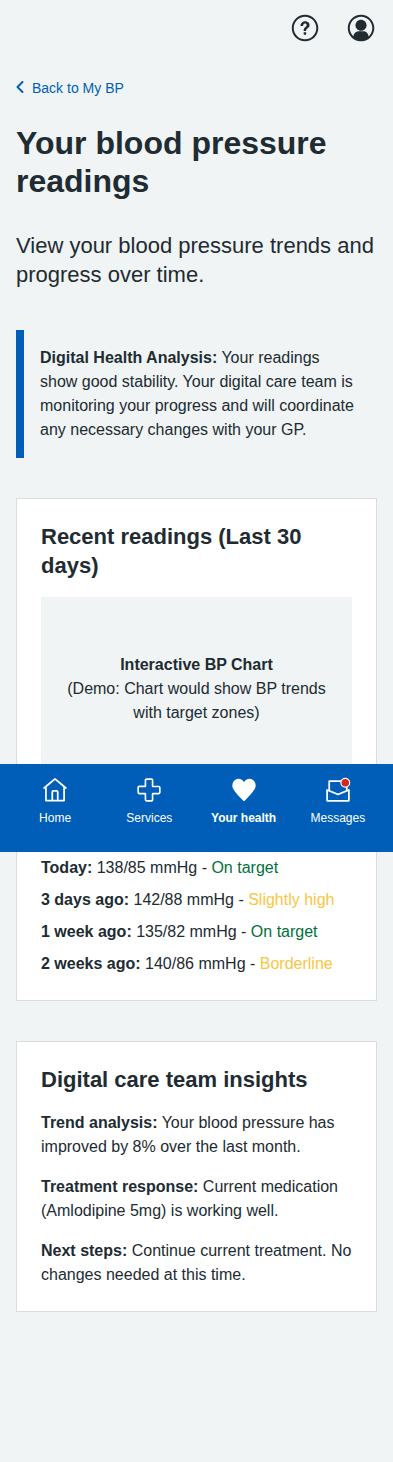
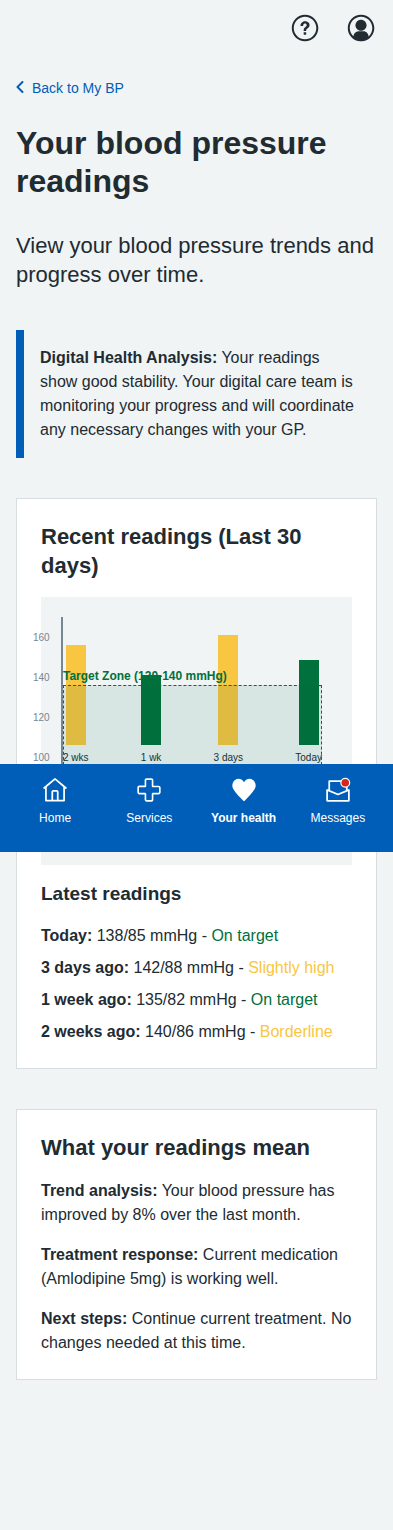
Replace placeholder chart with visual mockup and improve patient-friendly language in dashboard

diff --git a/prototype/v1/app/views/pages/mybp/dashboard.html b/prototype/v1/app/views/pages/mybp/dashboard.html
@@ -33,9 +33,38 @@
           <h2 class="nhsuk-card__heading nhsuk-heading-m">
             Recent readings (Last 30 days)
           </h2>
-          <div style="background: #f0f4f5; padding: 20px; text-align: center; min-height: 200px; display: flex; align-items: center; justify-content: center;">
-            <p><strong>Interactive BP Chart</strong><br/>
-            (Demo: Chart would show BP trends with target zones)</p>
+          <div style="background: #f0f4f5; padding: 20px; min-height: 200px;">
+            <div style="display: flex; justify-content: space-between; align-items: end; height: 160px; border-bottom: 2px solid #768692; border-left: 2px solid #768692; padding: 0 10px 10px 0; position: relative;">
+              <!-- Target zone background -->
+              <div style="position: absolute; bottom: 10px; left: 0; right: 10px; height: 80px; background: rgba(0, 112, 60, 0.1); border: 1px dashed #00703c;"></div>
+              <div style="position: absolute; bottom: 90px; left: 0; right: 10px; font-size: 12px; color: #00703c; font-weight: bold;">Target Zone (120-140 mmHg)</div>
+              
+              <!-- Chart bars -->
+              <div style="display: flex; flex-direction: column; align-items: center;">
+                <div style="width: 20px; height: 100px; background: #f9c642; margin-bottom: 5px;"></div>
+                <small style="font-size: 10px;">2 wks</small>
+              </div>
+              <div style="display: flex; flex-direction: column; align-items: center;">
+                <div style="width: 20px; height: 70px; background: #00703c; margin-bottom: 5px;"></div>
+                <small style="font-size: 10px;">1 wk</small>
+              </div>
+              <div style="display: flex; flex-direction: column; align-items: center;">
+                <div style="width: 20px; height: 110px; background: #f9c642; margin-bottom: 5px;"></div>
+                <small style="font-size: 10px;">3 days</small>
+              </div>
+              <div style="display: flex; flex-direction: column; align-items: center;">
+                <div style="width: 20px; height: 85px; background: #00703c; margin-bottom: 5px;"></div>
+                <small style="font-size: 10px;">Today</small>
+              </div>
+              
+              <!-- Y-axis labels -->
+              <div style="position: absolute; left: -30px; bottom: 130px; font-size: 10px; color: #768692;">160</div>
+              <div style="position: absolute; left: -30px; bottom: 90px; font-size: 10px; color: #768692;">140</div>
+              <div style="position: absolute; left: -30px; bottom: 50px; font-size: 10px; color: #768692;">120</div>
+              <div style="position: absolute; left: -30px; bottom: 10px; font-size: 10px; color: #768692;">100</div>
+            </div>
+            <p style="text-align: center; margin-top: 10px; font-size: 14px;"><strong>Your Blood Pressure Trends</strong><br/>
+            Systolic pressure over the last 2 weeks</p>
           </div>
           
           <h3 class="nhsuk-heading-s nhsuk-u-margin-top-4">Latest readings</h3>
@@ -52,7 +81,7 @@
       <div class="nhsuk-card">
         <div class="nhsuk-card__content">
           <h2 class="nhsuk-card__heading nhsuk-heading-m">
-            Digital care team insights
+            What your readings mean
           </h2>
           <p><strong>Trend analysis:</strong> Your blood pressure has improved by 8% over the last month.</p>
           <p><strong>Treatment response:</strong> Current medication (Amlodipine 5mg) is working well.</p>

diff --git a/prototype/v1/screenshots/screenshots.md b/prototype/v1/screenshots/screenshots.md
@@ -12,7 +12,7 @@ Complete collection of iPhone-formatted screenshots (393x852 pixels) for the mul
 ## Patient Dashboard
 
 ![BP Dashboard](mybp-dashboard-updated-colors.png)
-**Your BP Readings Dashboard** - Comprehensive view of blood pressure trends with digital health analysis. Updated with improved color coding where "Slightly high" readings use amber (#f9c642) instead of alarming red color for better patient experience.
+**Your BP Readings Dashboard** - Comprehensive view of blood pressure trends with visual chart mockup showing actual BP data over time with target zones. Features improved color coding where "Slightly high" readings use amber instead of red, and patient-friendly "What your readings mean" section instead of technical terminology.
 
 ---
 
